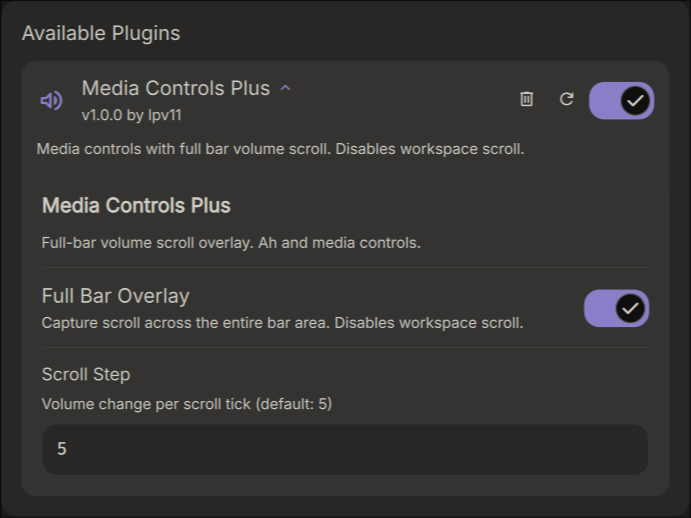
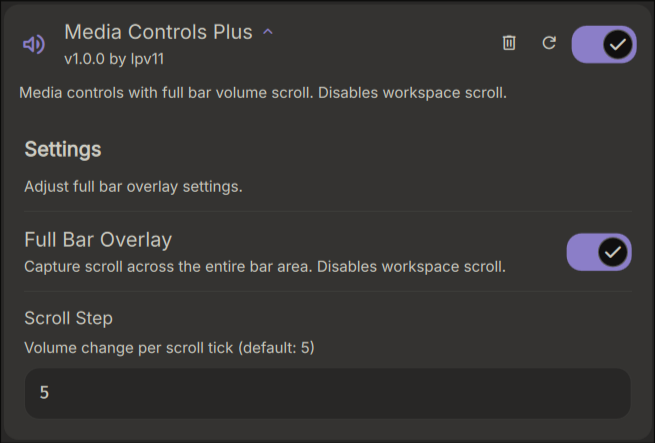
Fixed plugin dir name, Extended play/pause to widget area, added middle-click mute on the overlay.

diff --git a/MediaControlsPlus.qml b/MediaControlsPlus.qml
@@ -20,6 +20,7 @@ PluginComponent {
 
     property bool fullOverlay: pluginData.fullOverlay !== false
     property bool hideWhenNoMusic: pluginData.hideWhenNoMusic !== false
+    pillClickAction: () => { playerctl(["play-pause"]); }
 
     function applyForcedNoBackground() {
         if (!barConfig) {
@@ -44,6 +45,26 @@ PluginComponent {
             return
         const cmd = deltaY > 0 ? "increment" : "decrement"
         Quickshell.execDetached(["dms", "ipc", "call", "audio", cmd, step.toString()])
+    }
+
+    function playerctl(args) {
+        if (!args || args.length === 0)
+            return
+        Quickshell.execDetached(["/usr/bin/playerctl"].concat(args))
+    }
+
+    function toggleMute() {
+        Quickshell.execDetached(["dms", "ipc", "call", "audio", "mute"])
+    }
+
+    function handleMediaAction(button) {
+        if (button === Qt.LeftButton) {
+            playerctl(["play-pause"]);
+        } else if (button === Qt.MiddleButton) {
+            playerctl(["previous"]);
+        } else if (button === Qt.RightButton) {
+            playerctl(["next"]);
+        }
     }
 
     Component {
@@ -89,6 +110,8 @@ PluginComponent {
 
             implicitWidth: playerAvailable ? currentContentWidth : 0
             implicitHeight: playerAvailable ? currentContentHeight : 0
+            width: implicitWidth
+            height: implicitHeight
             opacity: playerAvailable ? 1 : 0
 
             Behavior on opacity {
@@ -135,6 +158,7 @@ PluginComponent {
                         color: Theme.primary
                         visible: !CavaService.cavaAvailable || !SettingsData.audioVisualizerEnabled
                     }
+
                 }
 
                 Rectangle {
@@ -158,16 +182,9 @@ PluginComponent {
                         enabled: playerAvailable
                         cursorShape: Qt.PointingHandCursor
                         acceptedButtons: Qt.LeftButton | Qt.MiddleButton | Qt.RightButton
-                        onClicked: mouse => {
-                            if (!activePlayer)
-                                return;
-                            if (mouse.button === Qt.LeftButton) {
-                                activePlayer.togglePlaying();
-                            } else if (mouse.button === Qt.MiddleButton) {
-                                activePlayer.previous();
-                            } else if (mouse.button === Qt.RightButton) {
-                                activePlayer.next();
-                            }
+                        onPressed: mouse => {
+                            root.handleMediaAction(mouse.button);
+                            mouse.accepted = true;
                         }
                     }
                 }
@@ -200,6 +217,7 @@ PluginComponent {
                             color: Theme.primary
                             visible: !CavaService.cavaAvailable || !SettingsData.audioVisualizerEnabled
                         }
+
                     }
 
                     Rectangle {
@@ -209,10 +227,7 @@ PluginComponent {
                         readonly property bool isWebMedia: lowerIdentity.includes("firefox") || lowerIdentity.includes("chrome") || lowerIdentity.includes("chromium") || lowerIdentity.includes("edge") || lowerIdentity.includes("safari")
 
                         property string displayText: {
-                            if (!activePlayer || !activePlayer.trackTitle) {
-                                return "";
-                            }
-
+                            if (!activePlayer || !activePlayer.trackTitle) return "";
                             const title = isWebMedia ? activePlayer.trackTitle : (activePlayer.trackTitle || "Unknown Track");
                             const subtitle = isWebMedia ? (activePlayer.trackArtist || cachedIdentity) : (activePlayer.trackArtist || "");
                             return subtitle.length > 0 ? title + " • " + subtitle : title;
@@ -246,9 +261,7 @@ PluginComponent {
                                 running: mediaText.needsScrolling && textContainer.visible
                                 loops: Animation.Infinite
 
-                                PauseAnimation {
-                                    duration: 2000
-                                }
+                                PauseAnimation { duration: 2000 }
 
                                 NumberAnimation {
                                     target: mediaText
@@ -259,9 +272,7 @@ PluginComponent {
                                     easing.type: Easing.Linear
                                 }
 
-                                PauseAnimation {
-                                    duration: 2000
-                                }
+                                PauseAnimation { duration: 2000 }
 
                                 NumberAnimation {
                                     target: mediaText
@@ -270,6 +281,17 @@ PluginComponent {
                                     duration: Math.max(1000, (mediaText.implicitWidth - textContainer.width + 5) * 60)
                                     easing.type: Easing.Linear
                                 }
+                            }
+                        }
+
+                        MouseArea {
+                            anchors.fill: parent
+                            cursorShape: Qt.PointingHandCursor
+                            enabled: playerAvailable
+                            acceptedButtons: Qt.LeftButton | Qt.MiddleButton | Qt.RightButton
+                            onPressed: mouse => {
+                                root.handleMediaAction(mouse.button);
+                                mouse.accepted = true;
                             }
                         }
                     }
@@ -300,10 +322,8 @@ PluginComponent {
                             anchors.fill: parent
                             enabled: playerAvailable
                             cursorShape: Qt.PointingHandCursor
-                            onClicked: {
-                                if (activePlayer) {
-                                    activePlayer.previous();
-                                }
+                            onPressed: {
+                                root.playerctl(["previous"]);
                             }
                         }
                     }
@@ -328,10 +348,10 @@ PluginComponent {
                             anchors.fill: parent
                             enabled: playerAvailable
                             cursorShape: Qt.PointingHandCursor
-                            onClicked: {
-                                if (activePlayer) {
-                                    activePlayer.togglePlaying();
-                                }
+                            acceptedButtons: Qt.LeftButton | Qt.MiddleButton | Qt.RightButton
+                            onPressed: mouse => {
+                                root.handleMediaAction(mouse.button);
+                                mouse.accepted = true;
                             }
                         }
                     }
@@ -357,10 +377,8 @@ PluginComponent {
                             anchors.fill: parent
                             enabled: playerAvailable
                             cursorShape: Qt.PointingHandCursor
-                            onClicked: {
-                                if (activePlayer) {
-                                    activePlayer.next();
-                                }
+                            onPressed: {
+                                root.playerctl(["next"]);
                             }
                         }
                     }
@@ -377,6 +395,17 @@ PluginComponent {
             width: root.fullOverlay && root.parentScreen ? root.parentScreen.width : implicitWidth
             height: root.fullOverlay ? root.barThickness : implicitHeight
             z: root.fullOverlay ? 1000 : 0
+
+            MouseArea {
+                anchors.fill: parent
+                enabled: root.fullOverlay
+                cursorShape: Qt.PointingHandCursor
+                acceptedButtons: Qt.MiddleButton
+                onPressed: mouse => {
+                    root.toggleMute();
+                    mouse.accepted = true;
+                }
+            }
 
             Loader {
                 id: mediaLoader
@@ -403,6 +432,17 @@ PluginComponent {
             width: root.fullOverlay ? root.barThickness : implicitWidth
             height: root.fullOverlay && root.parentScreen ? root.parentScreen.height : implicitHeight
             z: root.fullOverlay ? 1000 : 0
+
+            MouseArea {
+                anchors.fill: parent
+                enabled: root.fullOverlay
+                cursorShape: Qt.PointingHandCursor
+                acceptedButtons: Qt.MiddleButton
+                onPressed: mouse => {
+                    root.toggleMute();
+                    mouse.accepted = true;
+                }
+            }
 
             Loader {
                 id: mediaLoader

diff --git a/MediaControlsPlusSettings.qml b/MediaControlsPlusSettings.qml
@@ -9,7 +9,7 @@ PluginSettings {
 
     StyledText {
         width: parent.width
-        text: "Media Controls Plus"
+        text: "Settings"
         font.pixelSize: Theme.fontSizeLarge
         font.weight: Font.Bold
         color: Theme.surfaceText
@@ -17,7 +17,7 @@ PluginSettings {
 
     StyledText {
         width: parent.width
-        text: "Full-bar volume scroll overlay. Ah and media controls."
+        text: "Adjust full bar overlay settings."
         font.pixelSize: Theme.fontSizeSmall
         color: Theme.surfaceVariantText
         wrapMode: Text.WordWrap
